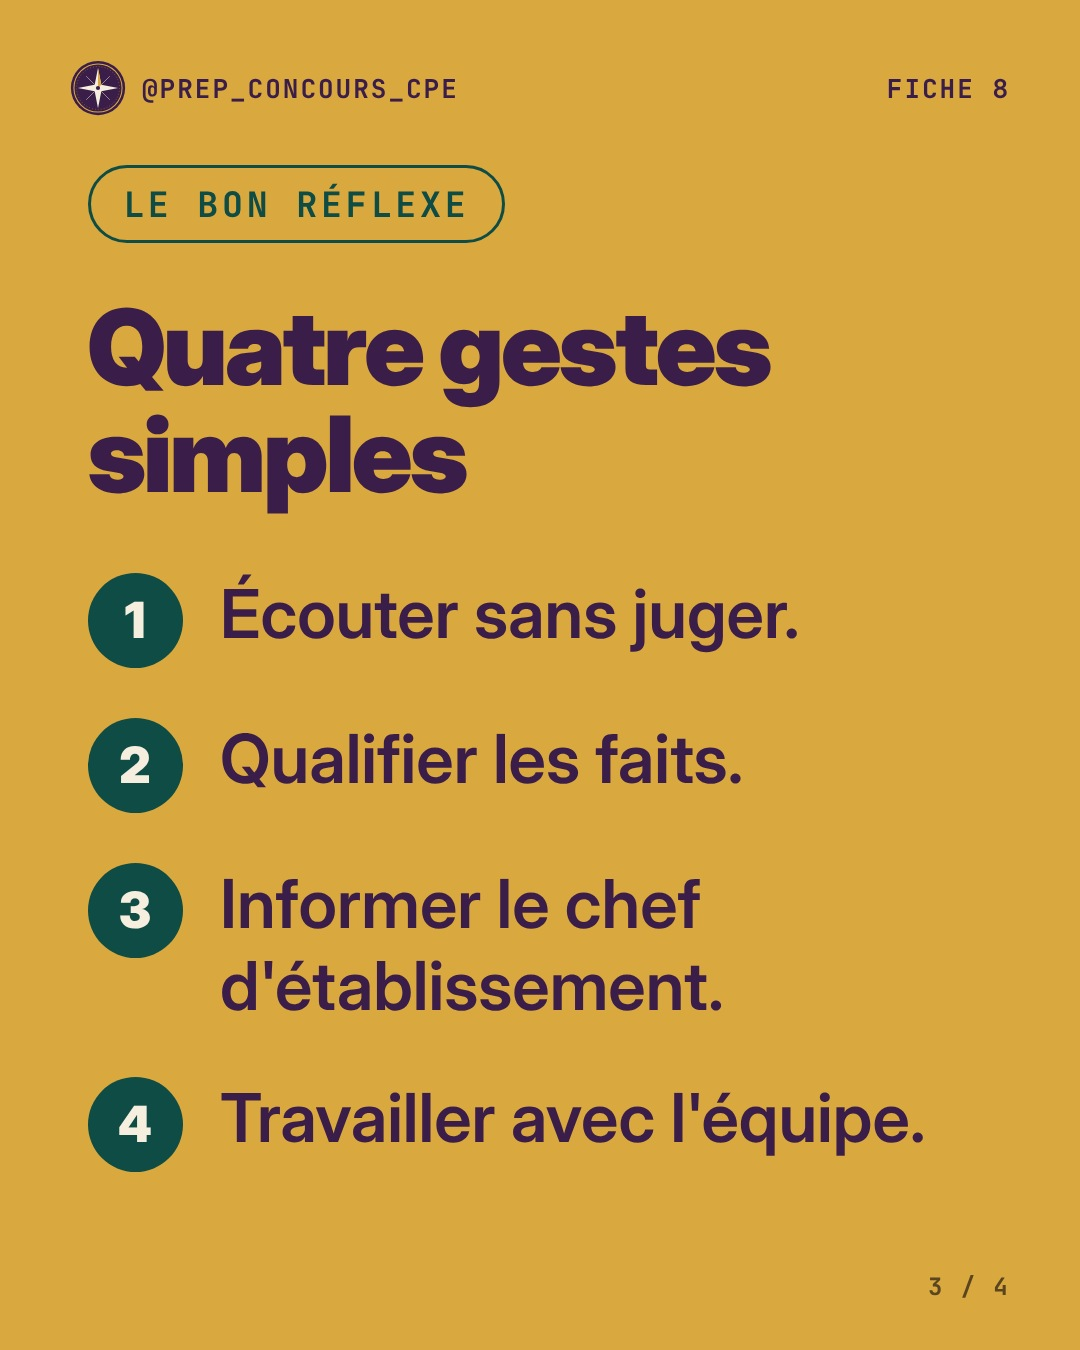
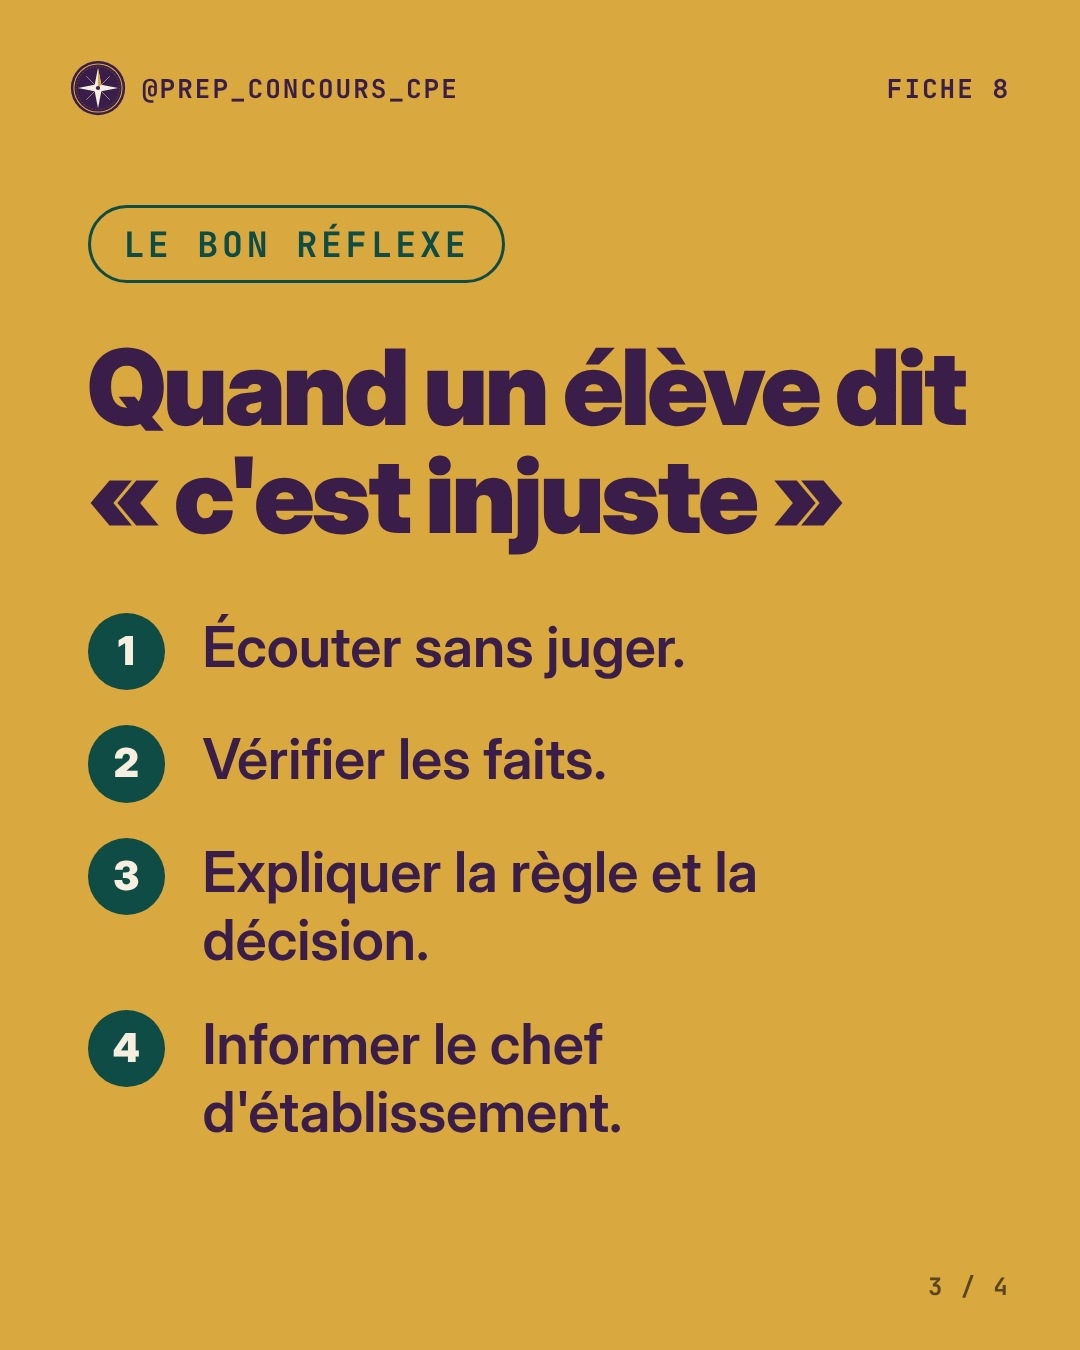
Carrousel du 13 nov : version plus claire (discrimination ou désaccord)
Claude-Session: https://claude.ai/code/session_01FvtqKV63af86obyasyuLiP

Changed region(s): [[0.0611, 0.1244, 0.9167, 0.8711]]

diff --git a/posts/auto/2026-11-13/LEGENDE.md b/posts/auto/2026-11-13/LEGENDE.md
@@ -1,3 +1,3 @@
-Égalité : le bon cadre. Une discrimination est une différence de traitement fondée sur un critère prévu par la loi, dans un domaine prévu par la loi. Un sentiment d'injustice, lui, appelle d'abord l'écoute, l'explication de la règle et la recherche d'une solution. Les quatre gestes simples, les textes et les situations sont dans la fiche 8 de Prep'CPE. Quelle est, selon toi, la première chose à faire quand un élève dit « ce n'est pas juste » ? Dis-le en commentaire. Lien en bio.
+Discrimination ou désaccord ? Une discrimination, c'est quand un élève est moins bien traité qu'un autre à cause d'un critère interdit par la loi (origine, sexe, religion, handicap…). Un désaccord, c'est une décision que l'élève juge injuste, sans critère interdit derrière : on écoute, on explique la règle. Savoir les distinguer est le premier réflexe. Tout est dans la fiche 8 de Prep'CPE. Quelle phrase dis-tu à un élève qui te répond « c'est pas juste » ? Écris-la en commentaire. Lien en bio.
 
 #concourscpe #cpe2027 #prepaconcours #conseillerprincipaldeducation #viescolaire #egalite #climatscolaire
